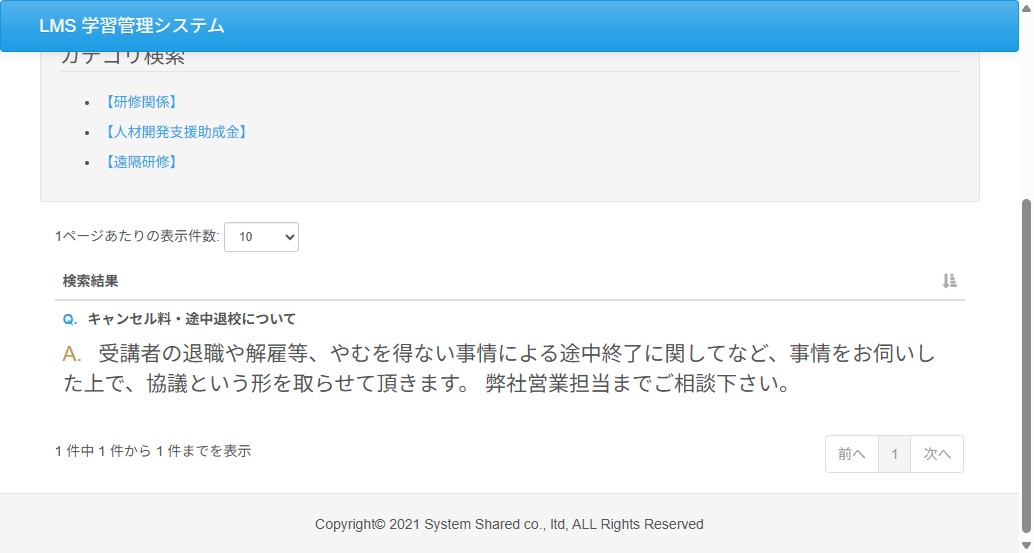
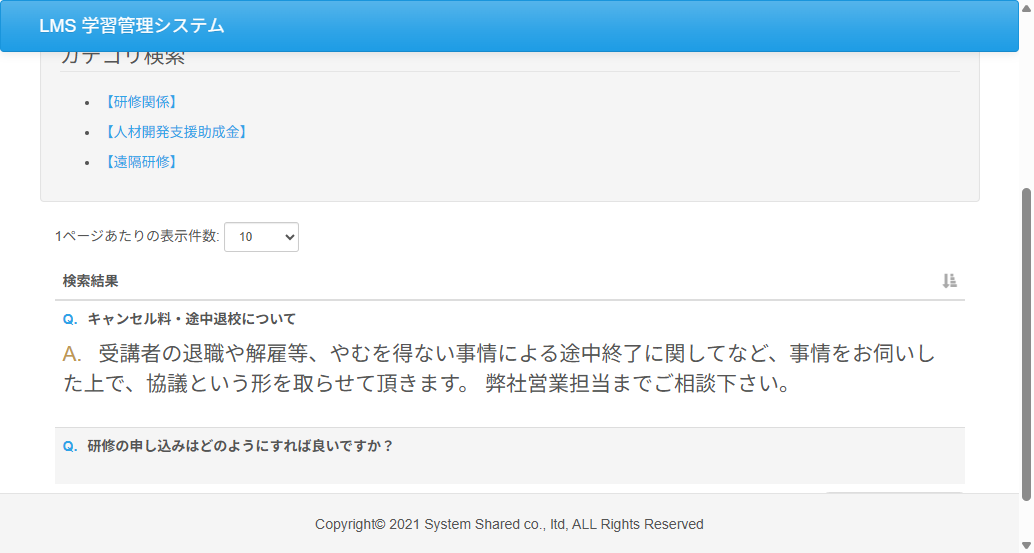
fix:Case06.java 内容の修正 fix:Case06_test05.png 内容の修正 fix:Case06_test06.png 内容の修正 fix:RP2_10_結合テスト仕様書_1.1.xls 内容の修正

diff --git a/test_code_creation_name/src/test/java/jp/co/sss/lms/ct/f02_faq/Case06.java b/test_code_creation_name/src/test/java/jp/co/sss/lms/ct/f02_faq/Case06.java
@@ -128,11 +128,11 @@ public class Case06 {
 		keyword.clear(); //これまでの入力内容を消去する
 		keyword.sendKeys("キャンセル");
 
-		//「検索」ボタンを押下する
-		WebElement search = webDriver.findElement(By.cssSelector("input[type='submit']"));
-		search.click();
+		//「カテゴリー検索」の下に表示された【研修関係】のリンクをクリックする
+		WebElement categorySearch = webDriver.findElement(By.linkText("【研修関係】"));
+		categorySearch.click();
 
-		//「検索」ボタンを押下後に検索結果の質問が表示されているかを確認
+		//「カテゴリー検索」リンクを押下後に検索結果の質問が表示されているかを確認
 		WebElement showQuestion = webDriver.findElement(By.className("text-primary"));
 		assertEquals("Q.", showQuestion.getText());
 
